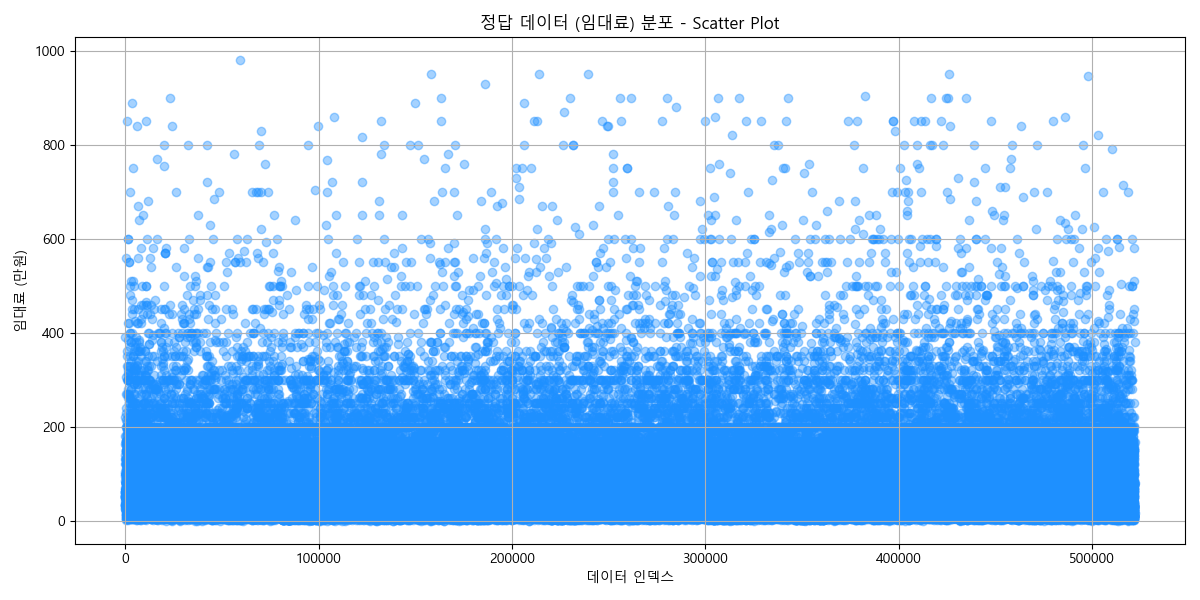
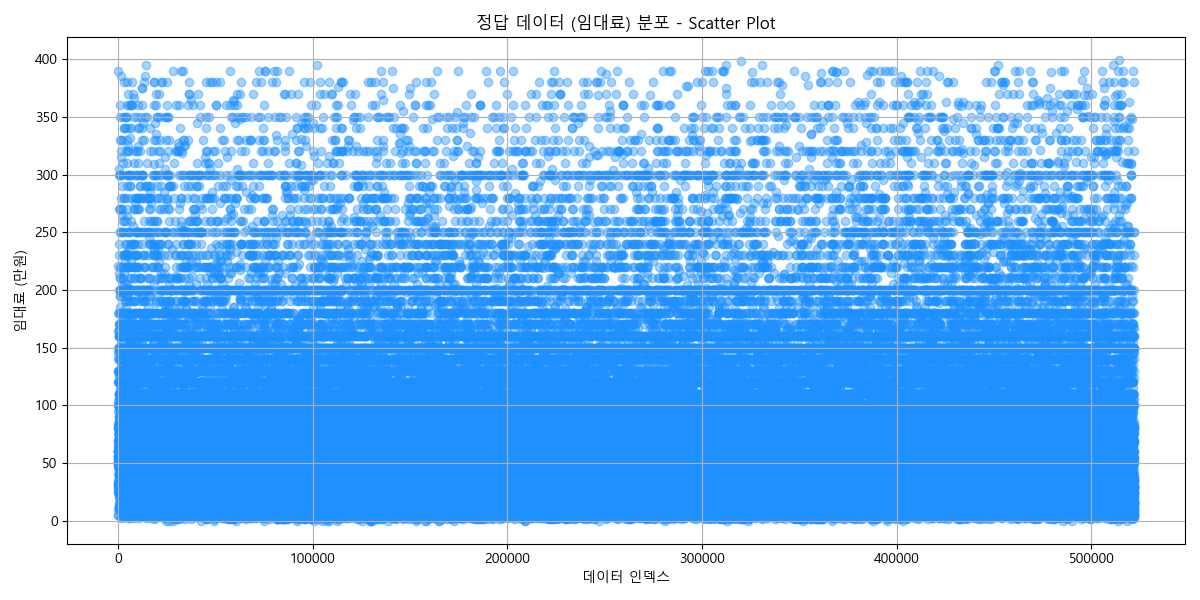
streamlit 프로토타입 구성

diff --git a/streamlit/main.py b/streamlit/main.py
@@ -1,0 +1,105 @@
+import streamlit as st 
+import folium
+from streamlit_folium import st_folium
+import sys, os
+sys.path.append(os.path.dirname(os.path.abspath(os.path.dirname(__file__))))
+from ml_python.train import TrainModel
+
+sample_data = [
+    {"name": "장소 1", "lat": 37.5665, "lon": 126.9780, "detail": "장소 1의 상세 설명입니다."},
+    {"name": "장소 2", "lat": 37.5651, "lon": 126.9895, "detail": "장소 2의 상세 설명입니다."},
+    {"name": "장소 3", "lat": 37.5700, "lon": 126.9825, "detail": "장소 3의 상세 설명입니다."}
+]
+
+st.session_state.select_list = sample_data
+
+def mainView():
+
+    st.title("부동산 매물 검색기")
+
+    if "search_clicked" not in st.session_state:
+        st.session_state.search_clicked = False
+    if "selected_place" not in st.session_state:
+        st.session_state.selected_place = None
+
+    address = st.text_input("주소를 입력하세요:")
+
+    if st.button("검색"):
+        st.session_state.search_clicked = True
+        st.session_state.selected_place = None  # 검색하면 선택 초기화
+
+    if st.session_state.search_clicked:
+        ######################################
+        # 주소 입력 시 위,경도 추출 함수 작성
+        # with st.spinner("상세 정보를 불러오는 중입니다..."):
+        #     ex) lat, lon = getCoordinate(address)
+        ######################################
+        
+        #debug
+        lat, lon = 37.5665, 126.9780
+
+        ######################################
+        # 위,경도 얻을 시, 크롤링으로 부동산 매물 리스트 받아오는 함수 작성
+        # with st.spinner("상세 정보를 불러오는 중입니다..."):
+        #     ex) saleList = getSaleList(lat,lon)
+        # sample_data를 리스트변수로 변경할것
+        ######################################
+
+        col1, col2 = st.columns([2, 1])
+
+        with col1:
+            m = folium.Map(location=[lat, lon], zoom_start=14)
+            for item in sample_data:
+                folium.Marker(
+                    location=[item["lat"], item["lon"]],
+                    popup=item["name"],
+                    icon=folium.Icon(color='blue',icon='star')
+                ).add_to(m)
+            st_folium(m, width=700, height=500)
+
+        with col2:
+            st.subheader("장소 리스트")
+            selected = st.radio(
+                "항목을 선택하세요",
+                [item["name"] for item in st.session_state.select_list]
+            )
+            
+            ######################################
+            # 장소 선택 시, 자치구,법정동,층,임대면적.보증금 정보가져오는 함수 작성
+            #     ex) saleInfo = getSaleInfo(name)
+            ######################################
+            st.session_state.selected_place = selected #화면 나오기 전에 미리 데이터를 가져오고 state를 변경
+
+        if "inference_cache" not in st.session_state: #folium 등으로 이벤트발생시 모델중복실행을 방지하기위해 캐시저장 dict선언
+            st.session_state.inference_cache = {}
+
+        if selected not in st.session_state.inference_cache: #radio변경때만 model실행
+            with st.spinner("상세 정보를 불러오는 중입니다..."):
+                result = TrainModel.inferenceModel("./ml_python/model/xbg_model.pkl",{
+                    "자치구명": "영등포구",
+                    "법정동명": "신도림동",
+                    "층": 7,
+                    "임대면적": 27.01,
+                    "보증금(만원)": 1000
+                })
+                st.session_state.inference_cache[selected] = result
+                
+        else:
+            result = st.session_state.inference_cache[selected]
+
+        selected = st.session_state.selected_place
+
+        
+        selected_detail = next(
+            (item["detail"] for item in sample_data if item["name"] == st.session_state.selected_place), ""
+        )
+        st.markdown("---")
+        st.markdown(f"예상 월 임대료:{result}만원 오차금액 +-20만원")
+        st.subheader("상세 정보")
+        st.write(selected_detail)
+
+
+
+
+if __name__ == "__main__":
+    mainView()

diff --git a/ml_python/train.py b/ml_python/train.py
@@ -1,4 +1,7 @@
-from data_preprocessing import DataPreProcessing, kindB, kindJ
+if __name__ == "__main__":
+    from data_preprocessing import DataPreProcessing, kindB, kindJ
+else:
+    from .data_preprocessing import DataPreProcessing, kindB, kindJ
 import xgboost as xgb
 import matplotlib.pyplot as plt
 from sklearn.metrics import mean_squared_error, r2_score, mean_absolute_error
@@ -16,9 +19,9 @@ class TrainModel:
         plt.rc('font', family=font_prop)
 
         self.gridSearchDict = {
-            "n_estimators": [100,200,300],
+            "n_estimators": [200,300,400],
             "learning_rate": [0.05,0.1,0.2],
-            "max_depth": [3,5,10]
+            "max_depth": [5,10, 20]
         }
 
 
@@ -28,13 +31,22 @@ class TrainModel:
         self.y_test = y_test 
 
 
-    def train(self):
+    def trainGrid(self):
         model = xgb.XGBRegressor()
         grid = GridSearchCV(model, param_grid=self.gridSearchDict,scoring="r2",verbose=True)
         grid.fit(self.X_train, self.y_train)
 
         self.model = grid.best_estimator_
         print(f"최적의 파라미터: {grid.best_params_}")
+
+    def train(self):
+        model = xgb.XGBRegressor(
+            n_estimators= 400,
+            learning_rate= 0.1,
+            max_depth= 20
+        )
+        model.fit(self.X_train, self.y_train)
+
 
 
     def valid(self):
@@ -123,13 +135,13 @@ if __name__ == "__main__":
     modelTrain.train()
     modelTrain.valid()
     modelTrain.show_graph()
-    modelTrain.save_model("./ml_python/model/xbg_model.pkl")
+    modelTrain.save_model("./ml_python/model/xbg_model.pkl") 
 
-    result = TrainModel.inferenceModel("./ml_python/model/xbg_model.pkl",{
-        "자치구명": "영등포구",
-        "법정동명": "신도림동",
-        "층": 8,
-        "임대면적": 42.01,
-        "보증금(만원)": 100
-    })
-    print(f"예상 월 임대료:{result}만원")
+    # result = TrainModel.inferenceModel("./ml_python/model/xbg_model.pkl",{
+    #     "자치구명": "영등포구",
+    #     "법정동명": "신도림동",
+    #     "층": 7,
+    #     "임대면적": 27.01,
+    #     "보증금(만원)": 1000
+    # })
+    # print(f"예상 월 임대료:{result}만원 오차금액 +-20만원")

diff --git a/ml_python/data_preprocessing.py b/ml_python/data_preprocessing.py
@@ -113,7 +113,7 @@ class DataPreProcessing:
 
     def extract(self):
         self.df = self.df[self.df['전월세구분'] == '월세'] # 월세 데이터만 가져오기
-        self.df = self.df[self.df['임대료(만원)'] < 1000] # 정답 데이터의 이상치 제거 
+        self.df = self.df[self.df['임대료(만원)'] < 400] # 정답 데이터의 이상치 제거 
         self.df = self.df[self.usecolumns]
         print(self.df)
         self.__dataCheck()
